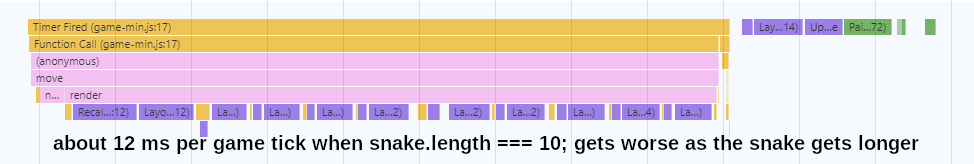
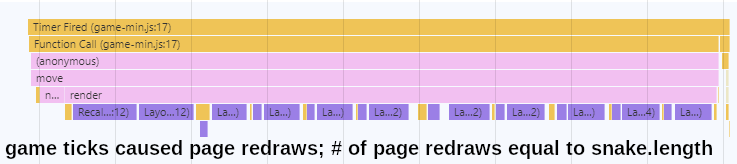
further clarifying optimization section

Changed region(s): [[0.0, 0.0915, 0.9986, 0.9756]]

diff --git a/README.md b/README.md
@@ -25,14 +25,14 @@ I was removing and adding the animation class to each snake segment as the snake
 
 ![unoptimized animations](assets/img/unoptimized.png)
 
+Note that these page redraws were in addition to other required page redraws.
+
 __After optimization__
 
-While the work is incomplete, I've refactored the code to apply the animation to the snake's body only once, but to repeat it `snake.length` number of times.  Further refactoring will be required to eliminate the flickering.  That being said, I'm already reaping the performance improvements.  On my laptop, page redraws are now less frequent and no longer tied to game ticks.  Page redraws take less than 3 ms, and game logic now takes less than half a millisecond!
-
-Page redraws are now less than 3 ms:
+While the work is incomplete, I've refactored the code to apply the animation to the snake's body only once, but to repeat it `snake.length` number of times.  Further refactoring will be required to eliminate the flickering.  That being said, I'm already reaping the performance improvements.  Executing the game's core logic no longer kicks off page redrawing.  The page is only rerendered as needed, which only takes under 3 milliseconds.
 
 ![optimized animations](assets/img/optimized.png)
 
-Game ticks are less than half a millisecond:  (note that this is out of date.  Game ticks are now less than 0.4 ms; evaluating keypresses takes significantly longer at slightly over 1 ms.)
+Game ticks are only 0.4 milliseconds:  (Actually, after further optimization, they're now less than 0.4 ms; evaluating keypresses takes significantly longer at slightly over 1 ms.)
 
 ![optimized game code](assets/img/optimized2.png)
